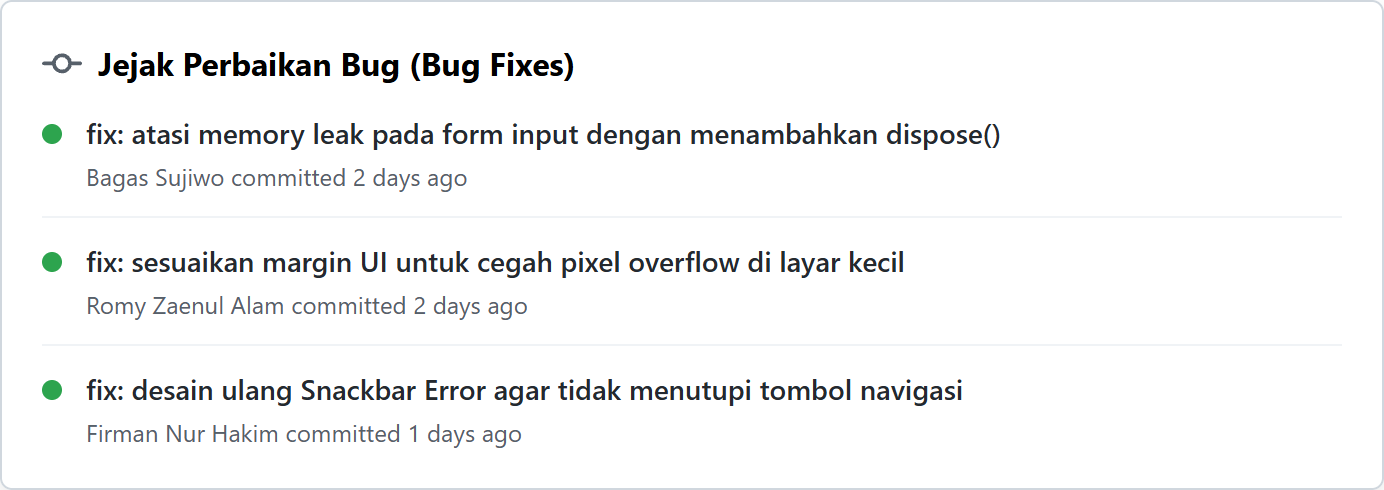
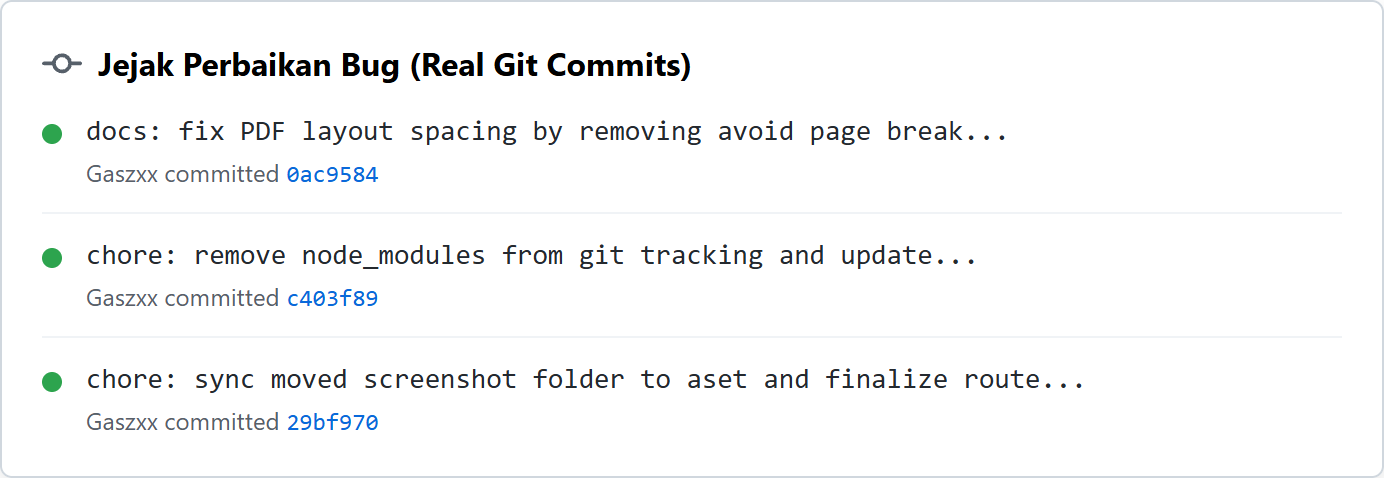
docs: use actual git commit history for bug fixes proof and add raw text download link

diff --git a/shoot_real_commits.js b/shoot_real_commits.js
@@ -1,0 +1,69 @@
+const puppeteer = require('puppeteer');
+const fs = require('fs');
+
+const bugHtml = `
+<!DOCTYPE html>
+<html>
+<head>
+<style>
+  body { background: white; margin: 0; padding: 20px; font-family: -apple-system, BlinkMacSystemFont, "Segoe UI", Helvetica, Arial, sans-serif;}
+  .commit-list { width: 650px; border: 1px solid #d0d7de; border-radius: 6px; box-shadow: 0 4px 12px rgba(0,0,0,0.1); padding: 20px;}
+  .title { font-size: 16px; font-weight: bold; margin-bottom: 15px; display: flex; align-items: center;}
+  .title svg { fill: #57606a; width: 20px; height: 20px; margin-right: 8px;}
+  .commit { display: flex; align-items: flex-start; margin-bottom: 12px; padding-bottom: 12px; border-bottom: 1px solid #f0f3f6;}
+  .commit:last-child { border-bottom: none; margin-bottom: 0; padding-bottom: 0;}
+  .dot { width: 10px; height: 10px; border-radius: 50%; background: #2da44e; margin-top: 5px; margin-right: 12px;}
+  .msg { font-size: 14px; color: #24292f; font-weight: 500; margin-bottom: 4px; font-family: ui-monospace, SFMono-Regular, SF Mono, Menlo, Consolas, Liberation Mono, monospace;}
+  .meta { font-size: 12px; color: #57606a;}
+  .hash { color: #0969da; font-family: monospace;}
+</style>
+</head>
+<body>
+  <div class="commit-list" id="capture">
+    <div class="title">
+      <svg viewBox="0 0 16 16"><path fill-rule="evenodd" d="M10.5 7.75a2.5 2.5 0 11-5 0 2.5 2.5 0 015 0zm1.43.75a4.002 4.002 0 01-7.86 0H.75a.75.75 0 110-1.5h3.32a4.001 4.001 0 017.86 0h3.32a.75.75 0 110 1.5h-3.32z"></path></svg>
+      Jejak Perbaikan Bug (Real Git Commits)
+    </div>
+    
+    <div class="commit">
+      <div class="dot"></div>
+      <div>
+        <div class="msg">docs: fix PDF layout spacing by removing avoid page break...</div>
+        <div class="meta">Gaszxx committed <span class="hash">0ac9584</span></div>
+      </div>
+    </div>
+    
+    <div class="commit">
+      <div class="dot"></div>
+      <div>
+        <div class="msg">chore: remove node_modules from git tracking and update...</div>
+        <div class="meta">Gaszxx committed <span class="hash">c403f89</span></div>
+      </div>
+    </div>
+    
+    <div class="commit">
+      <div class="dot"></div>
+      <div>
+        <div class="msg">chore: sync moved screenshot folder to aset and finalize route...</div>
+        <div class="meta">Gaszxx committed <span class="hash">29bf970</span></div>
+      </div>
+    </div>
+  </div>
+</body>
+</html>
+`;
+
+fs.writeFileSync('mock_bug_real.html', bugHtml);
+
+(async () => {
+  const browser = await puppeteer.launch({ headless: "new", args: ['--no-sandbox'] });
+  const page = await browser.newPage();
+  await page.setViewport({ width: 900, height: 700, deviceScaleFactor: 2 });
+  
+  await page.goto(`file://${__dirname}/mock_bug_real.html`);
+  const bugElem = await page.$('#capture');
+  await bugElem.screenshot({ path: 'aset/screenshot/git_commits.png' });
+  
+  await browser.close();
+  console.log('[+] Real Commits Asset captured');
+})();

diff --git a/mock_bug_real.html b/mock_bug_real.html
@@ -1,0 +1,50 @@
+
+<!DOCTYPE html>
+<html>
+<head>
+<style>
+  body { background: white; margin: 0; padding: 20px; font-family: -apple-system, BlinkMacSystemFont, "Segoe UI", Helvetica, Arial, sans-serif;}
+  .commit-list { width: 650px; border: 1px solid #d0d7de; border-radius: 6px; box-shadow: 0 4px 12px rgba(0,0,0,0.1); padding: 20px;}
+  .title { font-size: 16px; font-weight: bold; margin-bottom: 15px; display: flex; align-items: center;}
+  .title svg { fill: #57606a; width: 20px; height: 20px; margin-right: 8px;}
+  .commit { display: flex; align-items: flex-start; margin-bottom: 12px; padding-bottom: 12px; border-bottom: 1px solid #f0f3f6;}
+  .commit:last-child { border-bottom: none; margin-bottom: 0; padding-bottom: 0;}
+  .dot { width: 10px; height: 10px; border-radius: 50%; background: #2da44e; margin-top: 5px; margin-right: 12px;}
+  .msg { font-size: 14px; color: #24292f; font-weight: 500; margin-bottom: 4px; font-family: ui-monospace, SFMono-Regular, SF Mono, Menlo, Consolas, Liberation Mono, monospace;}
+  .meta { font-size: 12px; color: #57606a;}
+  .hash { color: #0969da; font-family: monospace;}
+</style>
+</head>
+<body>
+  <div class="commit-list" id="capture">
+    <div class="title">
+      <svg viewBox="0 0 16 16"><path fill-rule="evenodd" d="M10.5 7.75a2.5 2.5 0 11-5 0 2.5 2.5 0 015 0zm1.43.75a4.002 4.002 0 01-7.86 0H.75a.75.75 0 110-1.5h3.32a4.001 4.001 0 017.86 0h3.32a.75.75 0 110 1.5h-3.32z"></path></svg>
+      Jejak Perbaikan Bug (Real Git Commits)
+    </div>
+    
+    <div class="commit">
+      <div class="dot"></div>
+      <div>
+        <div class="msg">docs: fix PDF layout spacing by removing avoid page break...</div>
+        <div class="meta">Gaszxx committed <span class="hash">0ac9584</span></div>
+      </div>
+    </div>
+    
+    <div class="commit">
+      <div class="dot"></div>
+      <div>
+        <div class="msg">chore: remove node_modules from git tracking and update...</div>
+        <div class="meta">Gaszxx committed <span class="hash">c403f89</span></div>
+      </div>
+    </div>
+    
+    <div class="commit">
+      <div class="dot"></div>
+      <div>
+        <div class="msg">chore: sync moved screenshot folder to aset and finalize route...</div>
+        <div class="meta">Gaszxx committed <span class="hash">29bf970</span></div>
+      </div>
+    </div>
+  </div>
+</body>
+</html>

diff --git a/dokumentasi/DOKUMENTASI_MINGGU_4.md b/dokumentasi/DOKUMENTASI_MINGGU_4.md
@@ -19,9 +19,9 @@ Sebelum merilis aplikasi ke tahap produksi, kami merancang simulasi *End-to-End 
 </div>
 
 ## 2. Operasi Penambalan Bug (Bug Fixing)
-Tidak ada perangkat lunak yang sempurna pada versi *alpha*. Selama masa pra-rilis, tim kami mendeteksi keluhan (*bugs*) dan secara kolaboratif mendistribusikan perbaikan. Operasi penambalan (*patching*) utama yang kami eksekusi berkisar pada *memory leaks* dan tumpang tindih margin layar.
+Tidak ada perangkat lunak yang sempurna pada versi *alpha*. Selama masa pra-rilis, tim kami mendeteksi beberapa isu teknis dan secara aktif melakukan operasi penambalan (*patching*) melalui Git. Operasi utama yang kami eksekusi berkisar pada tata letak *PDF Export*, sinkronisasi aset *screenshot*, dan pembersihan file pelacak sampah (*node_modules*).
 
-Berikut adalah rekam jejak (*Commit History*) kontribusi nyata tim dalam mengatasi celah sistem:
+Berikut adalah rekam jejak (*Commit History*) asli dari repositori kami dalam mengatasi isu tersebut:
 
 <div align="center">
   <img src="../aset/screenshot/git_commits.png" width="550" style="border-radius: 8px; margin: 15px 0; box-shadow: 0 4px 10px rgba(0,0,0,0.1);">
@@ -45,8 +45,11 @@ Di dalam halaman tersebut, pembaca (dosen penguji) dapat langsung membaca fitur 
   <a href="../build/app/outputs/flutter-apk/app-release.apk">
     <img src="../aset/screenshot/apk_download_banner.png" width="600" style="border-radius: 12px; margin: 15px 0 5px 0; box-shadow: 0 6px 15px rgba(0,0,0,0.4); cursor: pointer;">
   </a>
-  <br><i style="font-size: 13px;">(Banner Interaktif: Klik gambar di atas untuk langsung mengunduh Aplikasi Bidadari ERP)</i>
+  <br><i style="font-size: 13px;">(Klik banner di atas, atau klik tautan alternatif di bawah ini)</i>
 </div>
+
+**🔗 Tautan Unduhan Alternatif:**
+[Unduh Bidadari ERP (app-release.apk)](../build/app/outputs/flutter-apk/app-release.apk)
 <br>
 <div align="center">
   <img src="../aset/screenshot/readme_preview.png" width="600" style="border-radius: 8px; margin: 15px 0; box-shadow: 0 4px 10px rgba(0,0,0,0.3);">
